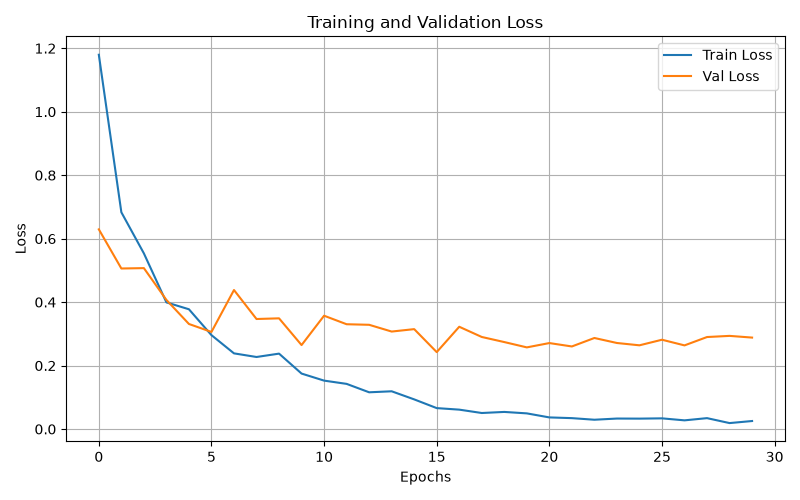
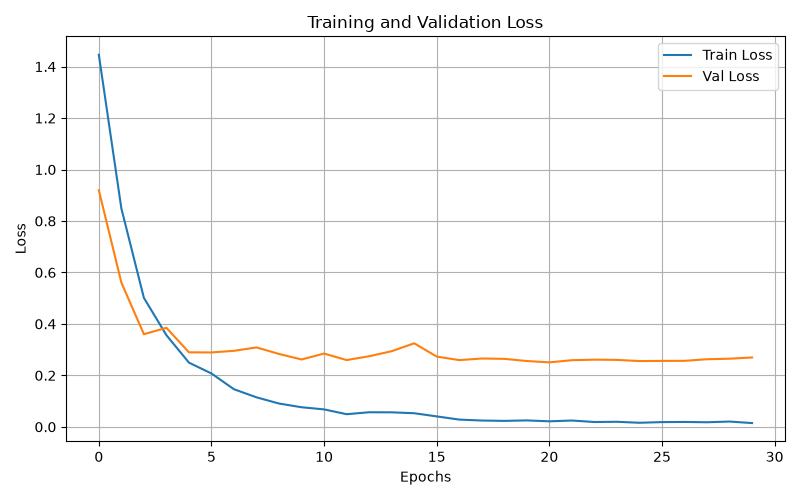
Rename trash class to General Waste; trim verbose comments; fix HPO dead code, test-split ordering, CSV/AdamW cleanup in main.py

diff --git a/main.py b/main.py
@@ -43,9 +43,8 @@ def main():
 
     device = torch.device(DEVICE if torch.cuda.is_available() else "cpu")
 
-    # Initial loaders just to inspect the dataset (triggers the train/val/test
-    # split on first run) and compute class weights; batch_size gets
-    # overridden below once HPO picks one.
+    # Initial loaders to trigger the split and get class weights;
+    # batch_size gets overridden below once HPO picks one.
     train_loader, val_loader = get_trashnet_train(
         data_root=DATA_ROOT, batch_size=32, num_workers=NUM_WORKERS
     )
@@ -56,11 +55,9 @@ def main():
     class_weights = get_class_weights(train_loader.dataset)
 
     # ---- Hyperparameter search ----
-    # Short trials (few epochs each) just to rank configurations; the winner
-    # gets a full-length training run below. Trials use full_num_epochs
-    # (matching the final run) as the CosineAnnealingLR T_max, so the first
-    # hpo_epochs of a trial mirror the start of the eventual full run
-    # instead of being their own fully-annealed short schedule.
+    # Short trials just rank configs; T_max uses full_num_epochs (not
+    # hpo_epochs) so a trial's LR schedule mirrors the start of the eventual
+    # full run instead of its own fully-annealed short one (see hpo.py).
     n_hpo_trials = 25
     hpo_epochs = 6
     full_num_epochs = 30
@@ -96,7 +93,7 @@ def main():
 
     # Loss function and optimizer
     criterion = nn.CrossEntropyLoss(weight=class_weights.to(device))
-    optimizer = torch.optim.AdamW(
+    optimizer = optim.AdamW(
         model.parameters(),
         lr=best_params["lr"],
         weight_decay=best_params["weight_decay"]
@@ -120,33 +117,32 @@ def main():
             writer = csv.writer(f)
             writer.writerow(["epoch", "train_loss", "train_acc", "val_loss", "val_acc"])
 
-        for epoch in range(num_epochs):
-            train_loss, train_acc = train(model, train_loader, criterion, optimizer, device)
-            val_loss, val_acc = val_test(model, val_loader, criterion, device)
+            for epoch in range(num_epochs):
+                train_loss, train_acc = train(model, train_loader, criterion, optimizer, device)
+                val_loss, val_acc = val_test(model, val_loader, criterion, device)
 
-            with open(log_file, "a", newline="") as f:
-                writer = csv.writer(f)
                 writer.writerow([epoch, train_loss, train_acc, val_loss, val_acc])
+                f.flush()
 
-            print(f"Epoch [{epoch + 1}/{num_epochs}] "
-                  f"Train Loss: {train_loss:.4f}, Train Acc: {train_acc:.4f} "
-                  f"| Val Loss: {val_loss:.4f}, Val Acc: {val_acc:.4f}")
+                print(f"Epoch [{epoch + 1}/{num_epochs}] "
+                      f"Train Loss: {train_loss:.4f}, Train Acc: {train_acc:.4f} "
+                      f"| Val Loss: {val_loss:.4f}, Val Acc: {val_acc:.4f}")
 
-            mlflow.log_metrics(
-                {
-                    "train_loss": train_loss,
-                    "train_acc": train_acc,
-                    "val_loss": val_loss,
-                    "val_acc": val_acc,
-                },
-                step=epoch,
-            )
+                mlflow.log_metrics(
+                    {
+                        "train_loss": train_loss,
+                        "train_acc": train_acc,
+                        "val_loss": val_loss,
+                        "val_acc": val_acc,
+                    },
+                    step=epoch,
+                )
 
-            if val_acc > best_val_acc:
-                best_val_acc = val_acc
-                torch.save(model.state_dict(), "checkpoints/best_resnet18_trashnet.pth")
+                if val_acc > best_val_acc:
+                    best_val_acc = val_acc
+                    torch.save(model.state_dict(), "checkpoints/best_resnet18_trashnet.pth")
 
-            scheduler.step()
+                scheduler.step()
 
         # Test the model
         model.load_state_dict(
@@ -157,7 +153,9 @@ def main():
         test_loss, test_acc = val_test(model, test_loader, criterion, device)
 
         # Generate plots
-        classes = train_loader.dataset.classes
+        # Translate raw folder name to the app's display name (see ui.py/inference.py).
+        DISPLAY_NAMES = {"trash": "General Waste"}
+        classes = [DISPLAY_NAMES.get(c, c) for c in train_loader.dataset.classes]
         y_true, y_pred = get_predictions(model, test_loader, device)
         cm_save_path = "./outputs/trashnet_confusion_matrix.png"
         plot_confusion_matrix(y_true, y_pred, classes, cm_save_path)
@@ -177,13 +175,8 @@ def main():
         mlflow.log_artifact(loss_path)
         mlflow.log_artifact(acc_path)
         mlflow.log_artifact("checkpoints/best_resnet18_trashnet.pth")
-        # MLflow 3.x defaults mlflow.pytorch.log_model to the 'pt2'
-        # (torch.export traced-graph) serialization format, which needs an
-        # input_example *and* a TensorSpec-typed signature to trace
-        # model.forward with. Simpler and more battle-tested to just use
-        # the traditional pickle-based format instead — no tracing, no
-        # signature-shape gymnastics. Shape matches inference.py's
-        # transform output: a single 224x224 RGB image.
+        # MLflow 3.x's default 'pt2' serialization needs tracing/signature
+        # gymnastics; serialization_format="pickle" avoids that.
         input_example = torch.randn(1, 3, 224, 224, device=device)
         mlflow.pytorch.log_model(
             model, name="model", input_example=input_example, serialization_format="pickle"

diff --git a/hpo.py b/hpo.py
@@ -21,30 +21,17 @@ def build_objective(
     """
     Build an Optuna objective for fine-tuning ResNet18 on TrashNet.
 
-    Search space (kept to training hyperparameters only, not model
-    architecture, so every trial produces a checkpoint with the same shape
-    that backend/inference.py already expects to load):
-      - lr: log-uniform 1e-4 .. 3e-3
-        Typical AdamW fine-tuning range for a pretrained CNN backbone;
-        the existing 30-epoch run used 3e-4 and got ~92-95% val acc, so
-        this brackets that with room on both sides.
-      - weight_decay: log-uniform 1e-5 .. 1e-2
-        Wide range since TrashNet is small (~2.5k images) and prone to
-        overfitting (train acc hit ~99.5% vs val acc ~92-94% previously).
-      - batch_size: {16, 32, 64}
-        Dataset is small, so batch size mainly trades off gradient noise
-        vs. steps per epoch rather than throughput.
+    Search space is training hyperparameters only (not architecture, so
+    every trial's checkpoint shape matches what backend/inference.py
+    expects): lr (log-uniform 1e-4..3e-3, bracketing the known-good 3e-4),
+    weight_decay (log-uniform 1e-5..1e-2, wide since TrashNet is small and
+    overfits easily), batch_size ({16, 32, 64}).
 
-    Uses AdamW + CosineAnnealingLR to match the final training recipe in
-    main.py, so a trial's ranking is representative of how it will actually
-    perform once trained for the full run. `T_max` is set to
-    `full_num_epochs` (the final run's epoch count), not `num_epochs` (the
-    trial's shortened epoch count) — a trial only runs the first
-    `num_epochs` steps of that schedule, so its LR trajectory matches the
-    *start* of the eventual full run instead of being its own fully
-    annealed 6-epoch schedule. Without this, a trial's "best" lr reflects
-    what works when annealed to near-zero in 6 steps, not what works
-    during the first 6 steps of a slower 30-step anneal.
+    Uses AdamW + CosineAnnealingLR matching main.py's final recipe, with
+    T_max=full_num_epochs (not the trial's shortened num_epochs) so a
+    trial's LR trajectory mirrors the *start* of the full run rather than
+    being its own fully-annealed short schedule — otherwise a trial's
+    "best" lr wouldn't transfer to the real training run.
     """
     device = device or ("cuda" if torch.cuda.is_available() else "cpu")
     class_weights = class_weights.to(device)
@@ -105,22 +92,3 @@ def build_objective(
         return best_val_acc
 
     return objective
-
-
-if __name__ == "__main__":
-    from utils.datasets import get_class_weights
-
-    mlflow.set_experiment("trashnet-hpo")
-
-    device = "cuda" if torch.cuda.is_available() else "cpu"
-    train_loader, _ = get_trashnet_train()
-    num_classes = len(train_loader.dataset.classes)
-    class_weights = get_class_weights(train_loader.dataset)
-
-    objective = build_objective(num_classes, class_weights, num_epochs=6, device=device)
-    study = optuna.create_study(direction="maximize")
-    study.optimize(objective, n_trials=25)
-
-    print("Best Trial:")
-    print(f"  val_acc: {study.best_trial.value:.4f}")
-    print(f"  params: {study.best_trial.params}")

diff --git a/utils/datasets.py b/utils/datasets.py
@@ -1,7 +1,3 @@
-# =====================================
-# TrashNet dataset loading utilities
-# =====================================
-
 import os
 import random
 import shutil
@@ -117,7 +113,12 @@ def get_trashnet_test(
     num_workers=2,
     image_size=224
 ):
+    raw_dir = os.path.join(data_root, "trashnet", "dataset-resized")
+    train_dir = os.path.join(data_root, "trashnet", "train")
+    val_dir = os.path.join(data_root, "trashnet", "val")
     test_dir = os.path.join(data_root, "trashnet", "test")
+
+    _split_dataset(raw_dir, train_dir, val_dir, test_dir)
 
     transform = transforms.Compose([
         transforms.Resize((image_size, image_size)),
@@ -138,12 +139,9 @@ def get_trashnet_test(
 
 def get_class_weights(dataset):
     """
-    Inverse-frequency class weights for an ImageFolder-style dataset, for
-    use with nn.CrossEntropyLoss(weight=...) on imbalanced data (TrashNet's
-    "trash" class has ~3.6x fewer images than "paper").
-
-    weight_i = N / (K * n_i), so a perfectly balanced dataset yields all
-    weights == 1.
+    Inverse-frequency class weights (weight_i = N/(K*n_i)) for
+    nn.CrossEntropyLoss(weight=...) — TrashNet's raw "trash" folder (shown
+    as "General Waste" in the app) has ~3.6x fewer images than "paper".
     """
     counts = Counter(dataset.targets)
     num_classes = len(dataset.classes)

diff --git a/conftest.py b/conftest.py
@@ -4,11 +4,9 @@ from pathlib import Path
 ROOT = Path(__file__).resolve().parent
 BACKEND = ROOT / "backend"
 
-# backend/inference.py and backend/main.py import sibling modules
-# (`models`, `inference`) as top-level names, matching how they're actually
-# run in production (Docker's WORKDIR is backend/, so those names resolve
-# from there). BACKEND is inserted after ROOT so it ends up earlier in
-# sys.path, making `import main` in tests resolve to backend/main.py (the
-# FastAPI app) rather than the training script at the repo root.
+# backend/*.py import sibling modules as top-level names (matches Docker's
+# WORKDIR=backend/ in production). Insert BACKEND after ROOT so it's
+# earlier in sys.path, making `import main` resolve to backend/main.py
+# (the FastAPI app), not the repo-root training script.
 for path in (ROOT, BACKEND):
     sys.path.insert(0, str(path))

diff --git a/tests/test_integration.py b/tests/test_integration.py
@@ -10,12 +10,9 @@ import main as backend_main
 
 @pytest.mark.integration
 def test_predict_end_to_end_downloads_real_model():
-    """Exercises the real path: no monkeypatching, so this actually
-    downloads the checkpoint from https://huggingface.co/tonghahaha/trashnet-resnet18
-    (if no local checkpoints/best_resnet18_trashnet.pth is present) and runs
-    a real forward pass. Marked `integration` so a temporary Hugging Face
-    Hub outage doesn't block a PR — see the CI workflow.
-    """
+    """No monkeypatching — downloads the real checkpoint from HF Hub (if no
+    local checkpoint is present) and runs a real forward pass. Marked
+    `integration` so a temporary HF Hub outage doesn't block a PR."""
     inference._model = None
 
     buf = io.BytesIO()

diff --git a/streamlit_app.py b/streamlit_app.py
@@ -2,11 +2,9 @@ import sys
 import time
 from pathlib import Path
 
-# Streamlit Community Cloud runs a single Python process, so this calls
-# backend/inference.py's predict() directly instead of over HTTP.
-# frontend/app.py is the HTTP-based version used with docker-compose and
-# local no-Docker dev — see README's "Live Demo" section. Both share the
-# same page layout from frontend/ui.py.
+# Streamlit Community Cloud runs a single process, so this calls
+# inference.predict() directly instead of over HTTP (frontend/app.py is the
+# HTTP version — see README's "Live Demo"). Both share frontend/ui.py.
 ROOT = Path(__file__).resolve().parent
 sys.path.insert(0, str(ROOT / "backend"))
 sys.path.insert(0, str(ROOT / "frontend"))

diff --git a/frontend/ui.py b/frontend/ui.py
@@ -13,14 +13,11 @@ CLASS_INFO = {
     "metal": "🥫 Metal",
     "paper": "📄 Paper",
     "plastic": "🧴 Plastic",
-    "trash": "🗑 General Waste",
+    "General Waste": "🗑 General Waste",
 }
 
-# Below this, the model's top prediction is shown as a low-confidence
-# warning with runner-up candidates instead of a plain success message —
-# on a ~2,500-image dataset like TrashNet, a prediction this close to the
-# 6-class random baseline (16.7%) isn't reliable enough to present as a
-# confident answer.
+# Below this, show a low-confidence warning + runner-up candidates instead
+# of a plain success — too close to the 6-class random baseline (16.7%).
 CONFIDENCE_THRESHOLD = 0.5
 
 

diff --git a/frontend/app.py b/frontend/app.py
@@ -4,9 +4,8 @@ import requests
 
 from ui import image_to_png_bytes, render_app
 
-# Defaults to localhost, which is correct for running both services on the
-# same machine without Docker. docker-compose overrides this to the
-# "backend" service hostname for the two-container local dev setup.
+# localhost is correct for running both services without Docker;
+# docker-compose overrides this to the "backend" service hostname.
 API_URL = os.environ.get("BACKEND_URL", "http://localhost:8000/predict")
 
 

diff --git a/backend/inference.py b/backend/inference.py
@@ -13,7 +13,7 @@ LOCAL_MODEL_PATH = BASE_DIR.parent / "checkpoints" / "best_resnet18_trashnet.pth
 HF_REPO_ID = "tonghahaha/trashnet-resnet18"
 HF_FILENAME = "best_resnet18_trashnet.pth"
 
-CLASSES = ['cardboard', 'glass', 'metal', 'paper', 'plastic', 'trash']
+CLASSES = ['cardboard', 'glass', 'metal', 'paper', 'plastic', 'General Waste']
 
 device = "cuda" if torch.cuda.is_available() else "cpu"
 

diff --git a/README.md b/README.md
@@ -28,8 +28,8 @@ The system classifies waste images into six categories from the TrashNet dataset
 | Model Architecture | ResNet18 |
 | Dataset | TrashNet |
 | Classes | 6 |
-| Best Validation Accuracy | 95.2% (epoch 25/30) |
-| Test Accuracy | 94.3% (361/383 images) |
+| Best Validation Accuracy | 94.4% (epoch 19/30) |
+| Test Accuracy | 92.2% (353/383 images) |
 | Inference Latency | ~60 ms |
 
 ## Per-Class Results (test set, 383 images)
@@ -40,22 +40,22 @@ and logged as an MLflow artifact (`classification_report.json`) — see
 
 | Class | Support | Precision | Recall | F1 |
 |---|---|---|---|---|
-| cardboard | 61 | 96.8% | 98.4% | 97.6% |
-| glass | 76 | 94.9% | 97.4% | 96.1% |
-| metal | 62 | 91.0% | 98.4% | 94.6% |
-| paper | 90 | 96.6% | 94.4% | 95.5% |
-| plastic | 73 | 96.9% | 84.9% | 90.5% |
-| trash | 21 | 79.2% | 90.5% | 84.4% |
+| cardboard | 61 | 98.3% | 95.1% | 96.7% |
+| glass | 76 | 89.7% | 92.1% | 90.9% |
+| metal | 62 | 88.2% | 96.8% | 92.3% |
+| paper | 90 | 97.6% | 90.0% | 93.7% |
+| plastic | 73 | 89.0% | 89.0% | 89.0% |
+| General Waste | 21 | 86.4% | 90.5% | 88.4% |
 
-`trash` has the weakest precision and by far the fewest test examples (21,
-vs. 61-90 for the others); `plastic` has the weakest recall despite having
-plenty of support, so that gap looks more like genuine visual overlap with
-another class (its confusion matrix column is worth checking) than a
+`General Waste` has the weakest precision and by far the fewest test examples
+(21, vs. 61-90 for the others); `plastic` has the weakest recall despite
+having plenty of support, so that gap looks more like genuine visual overlap
+with another class (its confusion matrix column is worth checking) than a
 data-volume problem. TrashNet's class imbalance is handled during training
 via inverse-frequency class weighting (`utils/datasets.py::get_class_weights`),
-which helps the training signal, but 21 `trash` test images is still a
-small sample to generalize from — more `trash`-class data would likely
-help more than further loss reweighting at this point.
+which helps the training signal, but 21 `General Waste` test images is still
+a small sample to generalize from — more `General Waste`-class data would
+likely help more than further loss reweighting at this point.
 
 ![Confusion matrix](docs/eval/trashnet_confusion_matrix.png)
 
@@ -67,7 +67,7 @@ loss flattening (while training loss keeps dropping) are signs of
 overfitting on this small (~2,500 image) dataset, despite the
 augmentation (random flip/rotation) and dropout (p=0.5) already in the
 training pipeline. The checkpoint actually shipped is whichever epoch had
-the best validation accuracy (epoch 25 here), not the final epoch, so this
+the best validation accuracy (epoch 19 here), not the final epoch, so this
 doesn't directly hurt the deployed model's accuracy — but it's a signal
 that stronger augmentation, partial backbone freezing, or more data would
 likely generalize better than training longer.
@@ -87,7 +87,7 @@ The model classifies images into the following categories:
 - 🥫 Metal
 - 📄 Paper
 - 🧴 Plastic
-- 🗑 Trash
+- 🗑 General Waste
 
 ---
 
